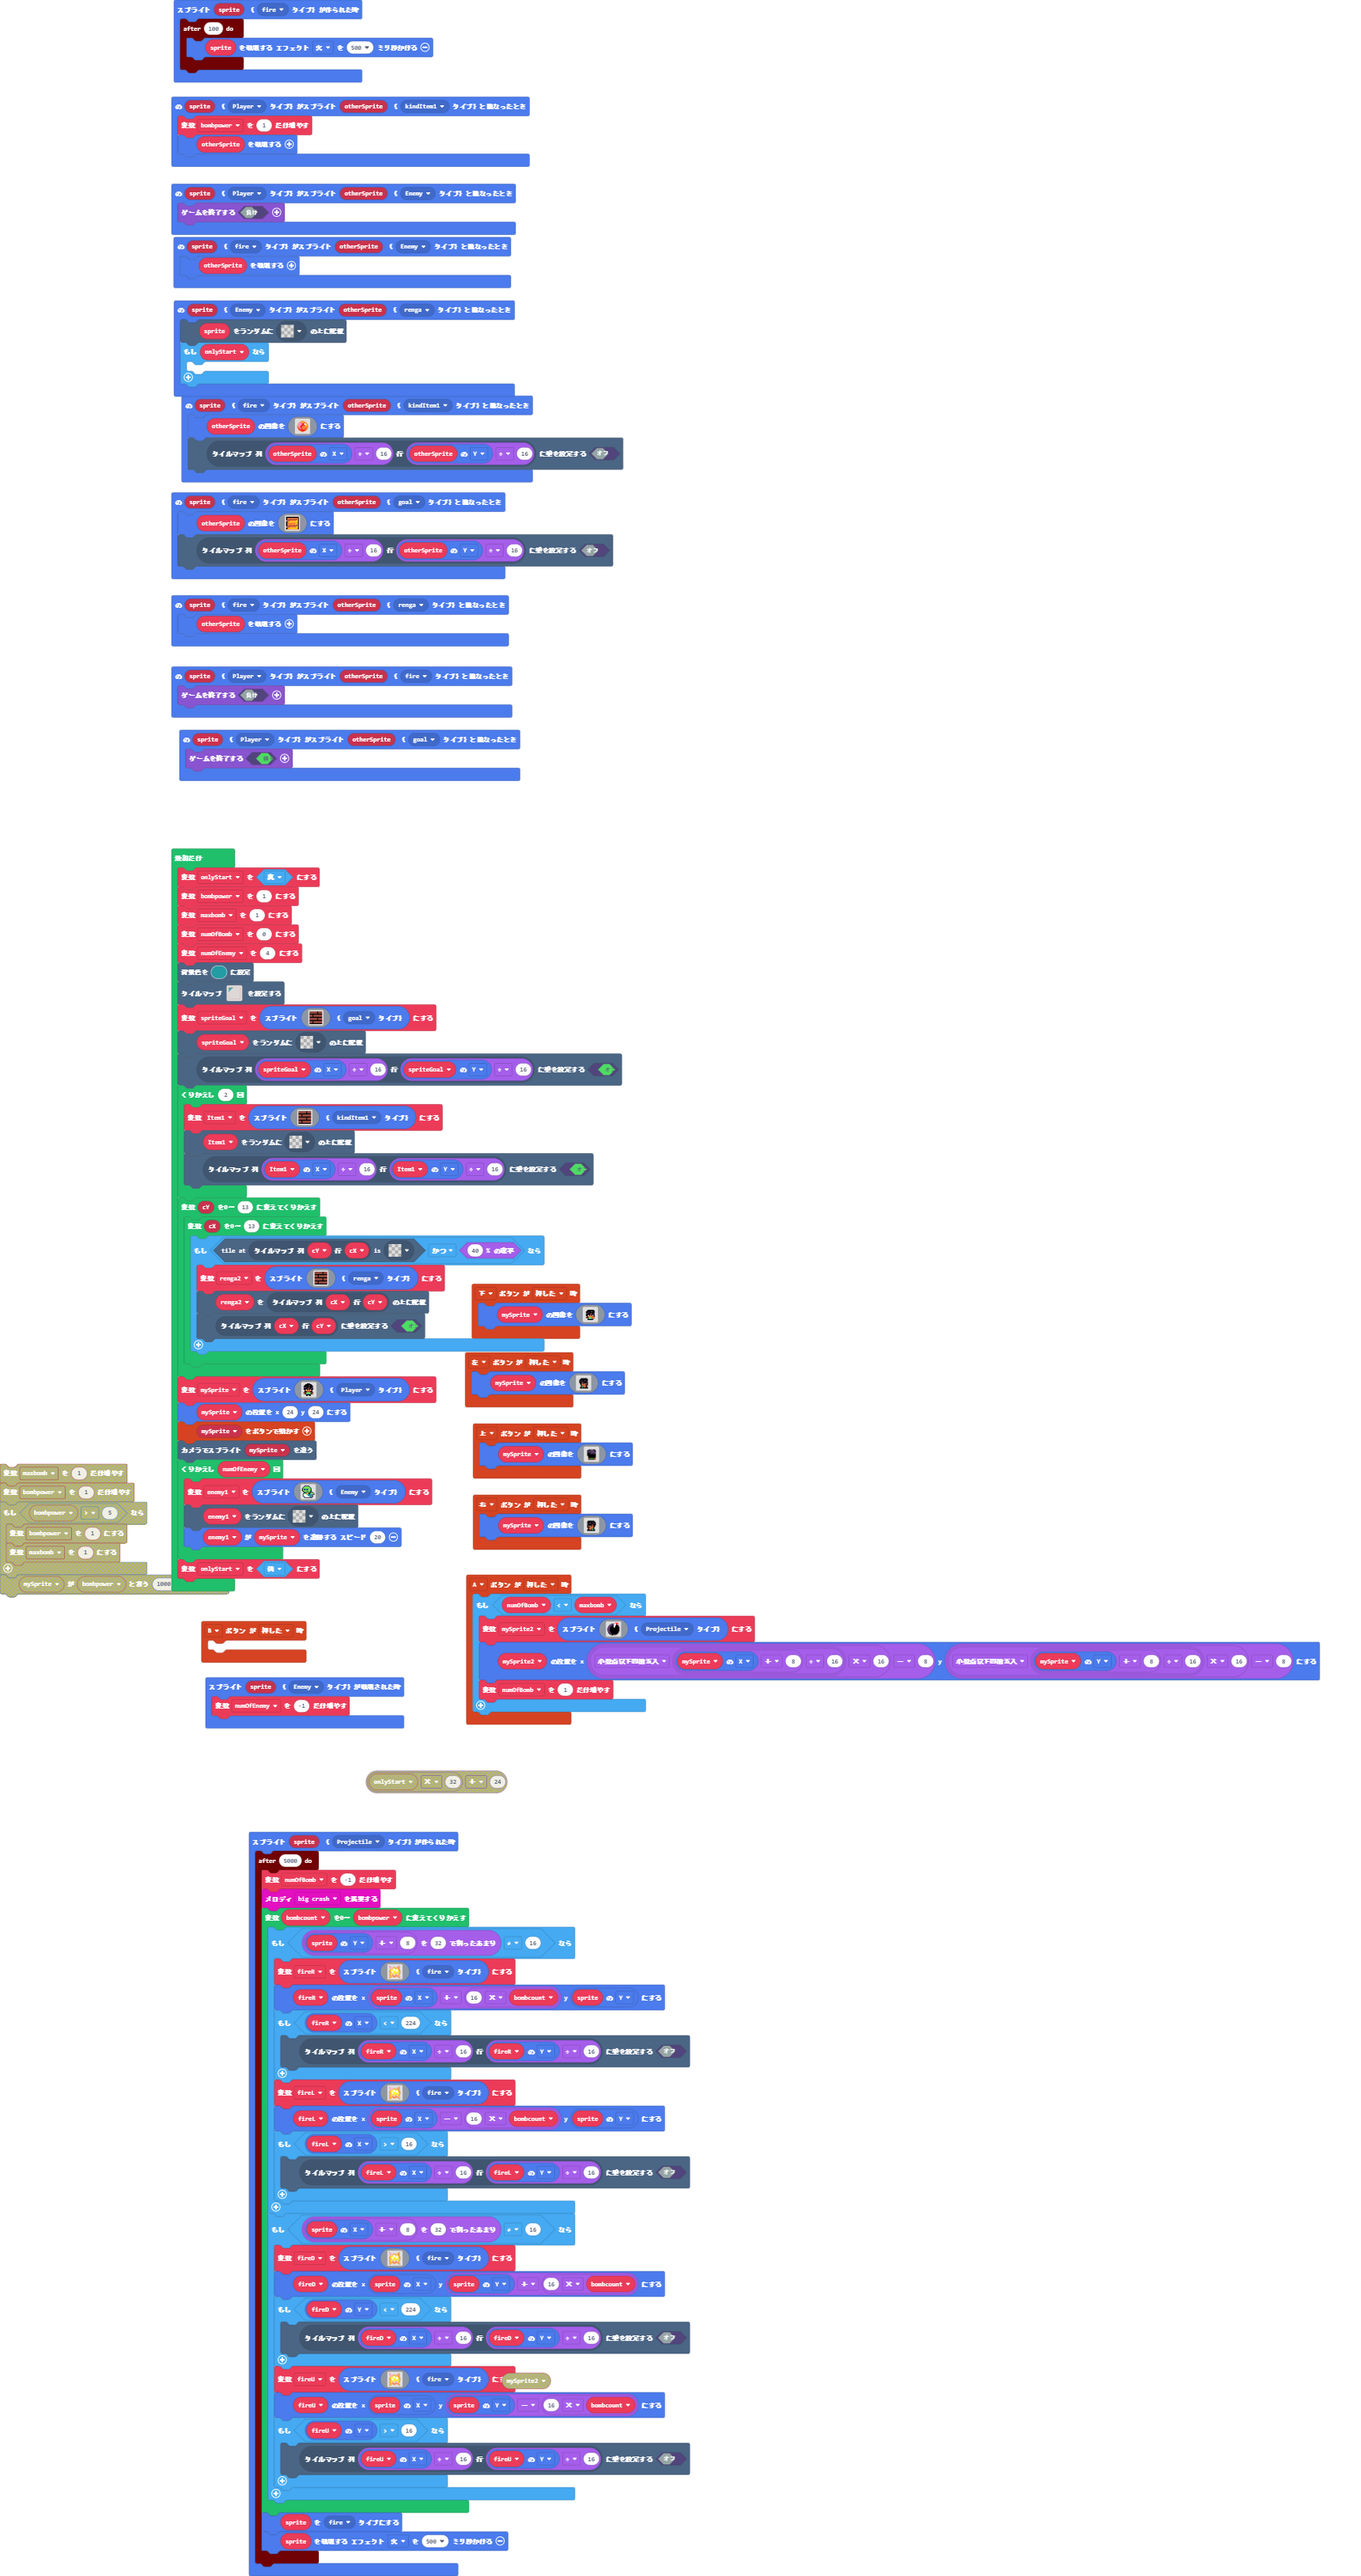
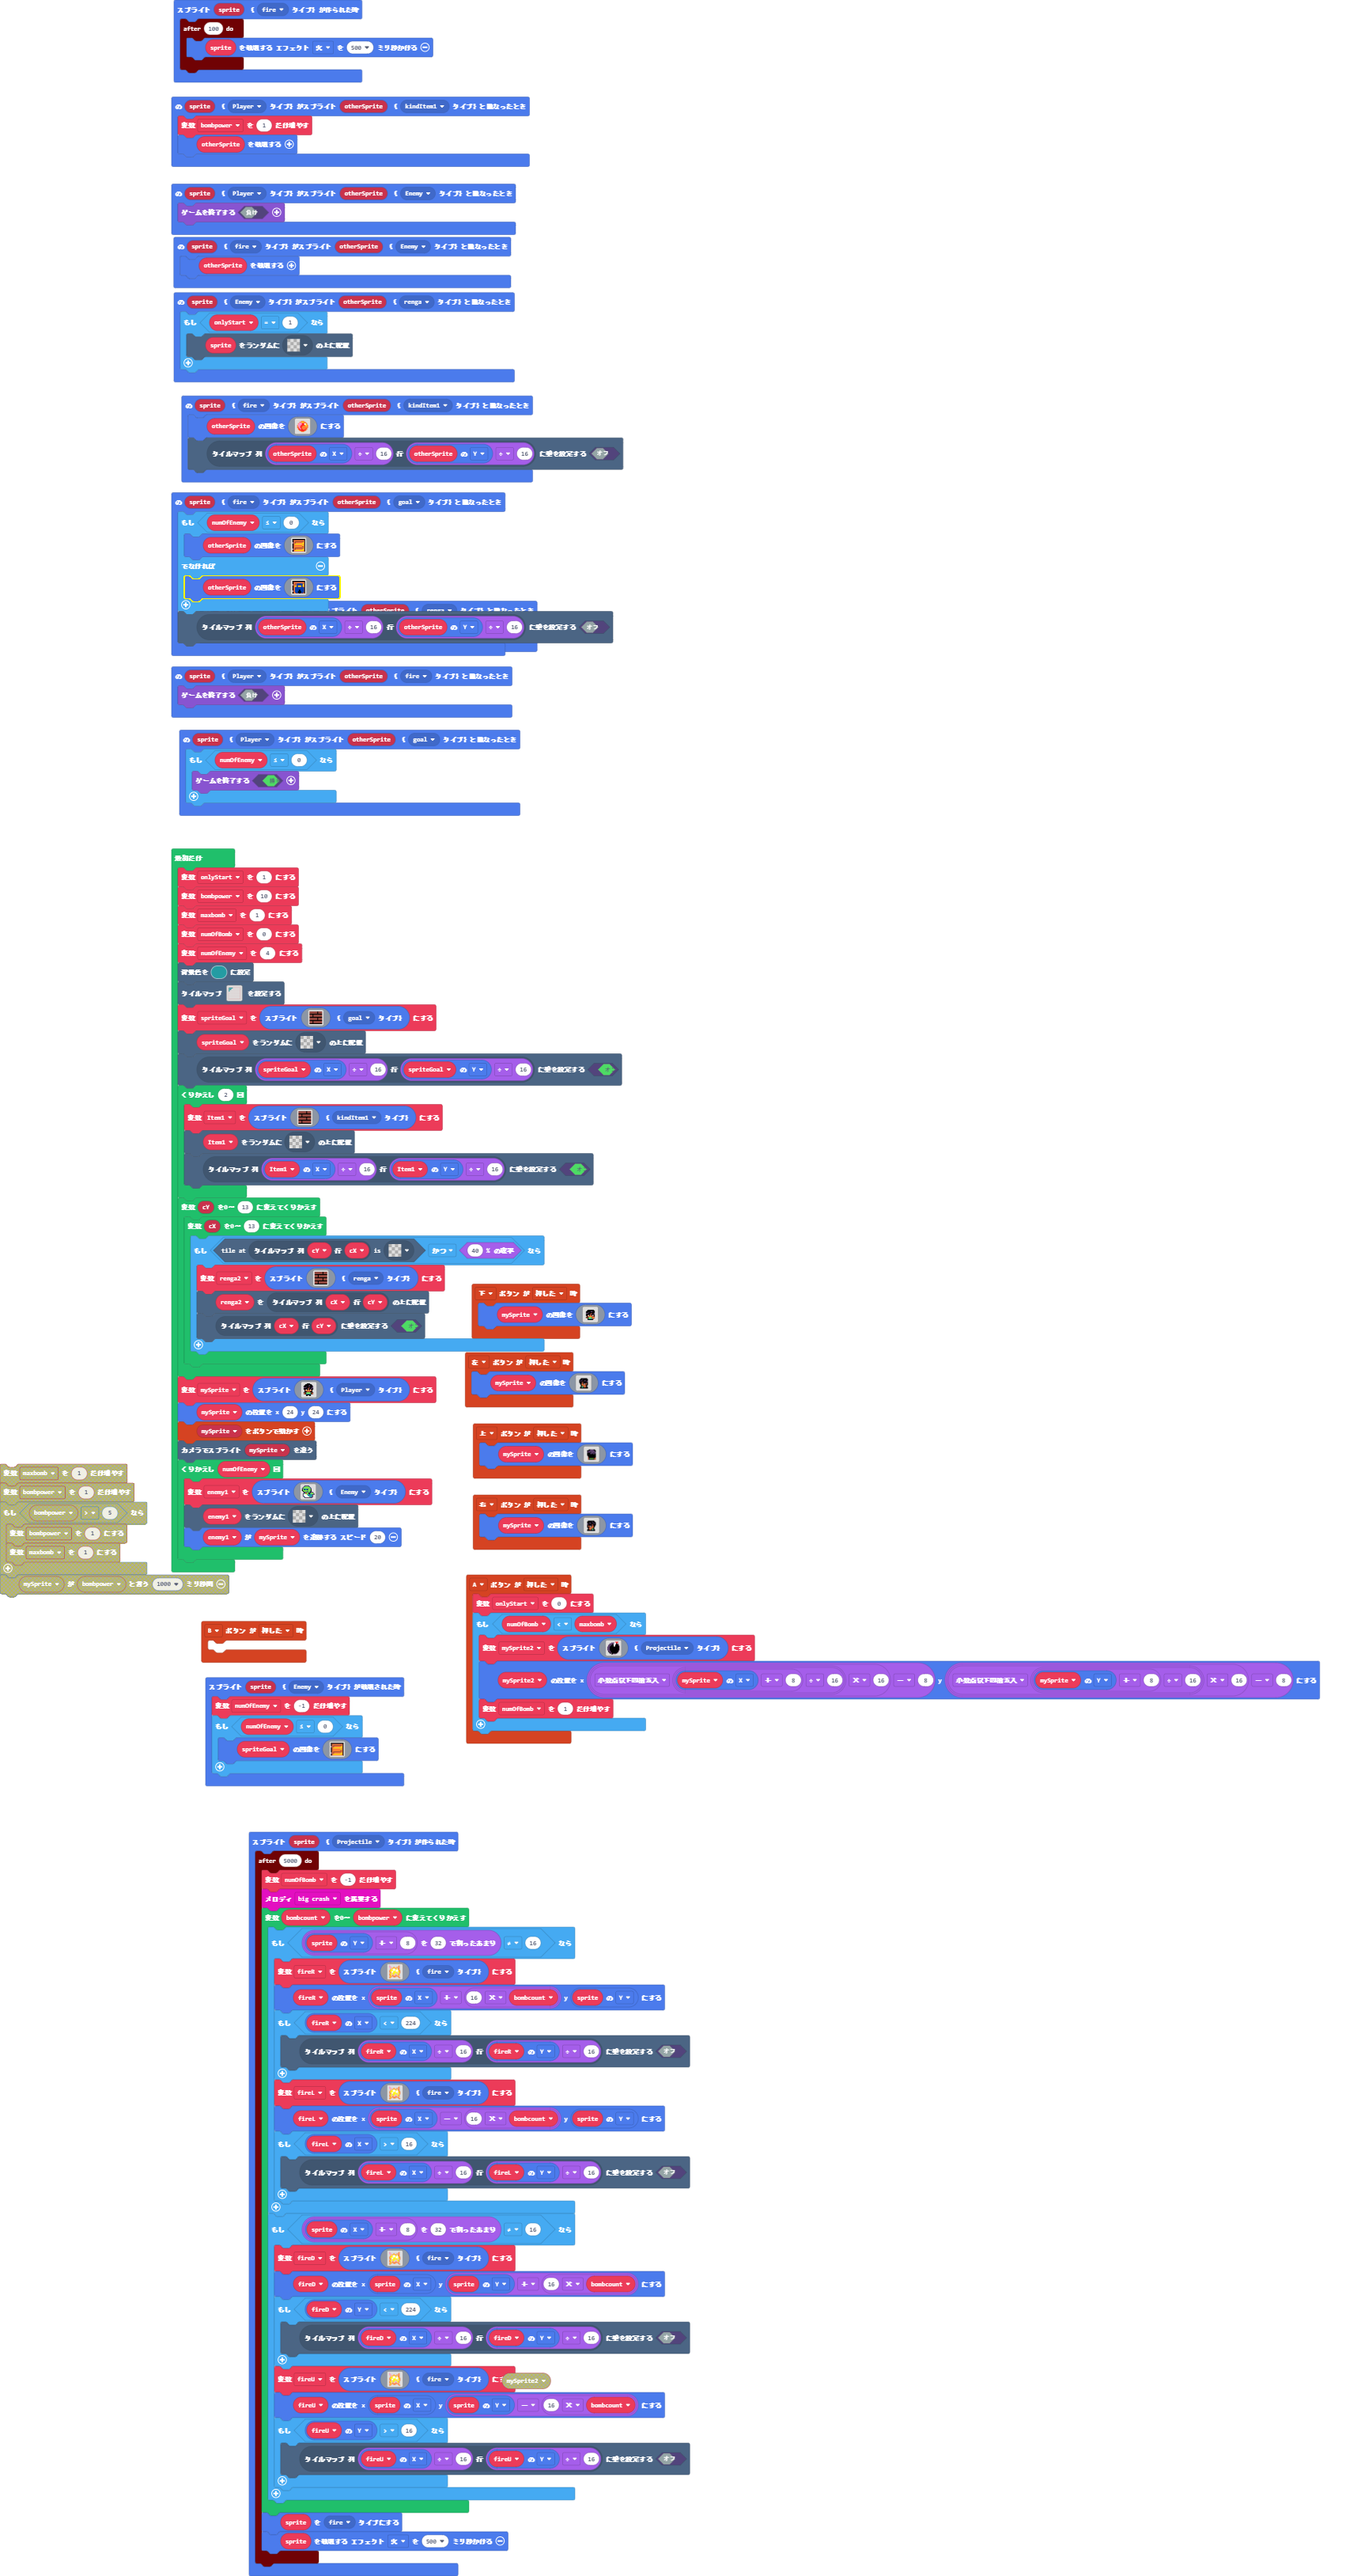
更新 main.blocks, main.ts

diff --git a/main.ts b/main.ts
@@ -33,24 +33,45 @@ sprites.onOverlap(SpriteKind.Player, SpriteKind.kindItem1, function (sprite, oth
     otherSprite.destroy()
 })
 sprites.onOverlap(SpriteKind.fire, SpriteKind.goal, function (sprite, otherSprite) {
-    otherSprite.setImage(img`
-        f f f f f f f f f f f f f f f f 
-        f e e e e e e e e e e e e e e f 
-        f e 4 4 4 4 4 4 4 4 4 4 4 4 4 f 
-        f e 4 e e e e e e e e e e e 4 f 
-        b e 4 e 4 4 4 4 4 4 4 4 4 5 4 f 
-        b e 4 e 4 4 4 4 4 4 4 4 4 5 4 f 
-        f e 4 5 5 5 5 5 5 5 5 5 5 5 4 f 
-        f e 4 4 4 4 4 4 4 4 4 4 4 4 4 f 
-        f e 4 4 4 4 4 4 4 4 4 4 5 5 4 f 
-        f e 4 4 4 4 4 4 4 4 4 4 5 e 4 f 
-        f e 4 4 4 4 4 4 4 4 4 4 4 4 4 f 
-        f e 4 e e e e e e e e e e e 4 f 
-        b e 4 e 4 4 4 4 4 4 4 4 4 5 4 f 
-        b e 4 e 4 4 4 4 4 4 4 4 4 5 4 f 
-        f e 4 5 5 5 5 5 5 5 5 5 5 5 4 f 
-        f e 4 4 4 4 4 4 4 4 4 4 4 4 4 f 
-        `)
+    if (numOfEnemy <= 0) {
+        otherSprite.setImage(img`
+            f f f f f f f f f f f f f f f f 
+            f e e e e e e e e e e e e e e f 
+            f e 4 4 4 4 4 4 4 4 4 4 4 4 4 f 
+            f e 4 e e e e e e e e e e e 4 f 
+            b e 4 e 4 4 4 4 4 4 4 4 4 5 4 f 
+            b e 4 e 4 4 4 4 4 4 4 4 4 5 4 f 
+            f e 4 5 5 5 5 5 5 5 5 5 5 5 4 f 
+            f e 4 4 4 4 4 4 4 4 4 4 4 4 4 f 
+            f e 4 4 4 4 4 4 4 4 4 4 5 5 4 f 
+            f e 4 4 4 4 4 4 4 4 4 4 e e 4 f 
+            f e 4 4 4 4 4 4 4 4 4 4 4 4 4 f 
+            f e 4 e e e e e e e e e e e 4 f 
+            b e 4 e 4 4 4 4 4 4 4 4 4 5 4 f 
+            b e 4 e 4 4 4 4 4 4 4 4 4 5 4 f 
+            f e 4 5 5 5 5 5 5 5 5 5 5 5 4 f 
+            f e 4 4 4 4 4 4 4 4 4 4 4 4 4 f 
+            `)
+    } else {
+        otherSprite.setImage(img`
+            f f f f f f f f f f f f f f f f 
+            f e e e e e e e e e e e e e e f 
+            f e 4 4 4 4 4 4 4 4 4 4 4 4 4 f 
+            f e 4 e e e 8 8 8 8 8 8 e e 4 f 
+            b e 4 e 4 8 8 8 8 8 8 8 8 5 4 f 
+            b e 4 e 4 8 c c c c c 8 c 5 4 f 
+            f e 4 5 5 8 c 5 5 5 5 8 c 5 4 f 
+            f e 4 4 4 8 c 4 4 4 4 8 c 4 4 f 
+            f e 4 8 8 8 8 8 8 8 8 8 8 8 c f 
+            f e 4 8 8 8 8 8 8 8 8 8 8 8 c f 
+            f e 4 8 8 8 8 8 8 8 8 8 8 8 c f 
+            f e 4 8 8 8 8 8 f f 8 8 8 8 c f 
+            b e 4 8 8 8 8 8 f f 8 8 8 8 c f 
+            b e 4 8 8 8 8 f f f f 8 8 8 c f 
+            f e 4 c 8 8 8 f f f f 8 8 c c f 
+            f e 4 4 c c c c f f c c c c 4 f 
+            `)
+    }
     tiles.setWallAt(tiles.getTileLocation(otherSprite.x / 16, otherSprite.y / 16), false)
 })
 sprites.onCreated(SpriteKind.fire, function (sprite) {
@@ -132,13 +153,14 @@ controller.B.onEvent(ControllerButtonEvent.Pressed, function () {
 	
 })
 sprites.onOverlap(SpriteKind.Enemy, SpriteKind.renga, function (sprite, otherSprite) {
-    tiles.placeOnRandomTile(sprite, assets.tile`transparency16`)
-    if (onlyStart) {
-    	
+    if (onlyStart == 1) {
+        tiles.placeOnRandomTile(sprite, assets.tile`transparency16`)
     }
 })
 sprites.onOverlap(SpriteKind.Player, SpriteKind.goal, function (sprite, otherSprite) {
-    game.over(true)
+    if (numOfEnemy <= 0) {
+        game.over(true)
+    }
 })
 controller.up.onEvent(ControllerButtonEvent.Pressed, function () {
     mySprite.setImage(img`
@@ -264,11 +286,32 @@ sprites.onCreated(SpriteKind.Projectile, function (sprite) {
 })
 sprites.onDestroyed(SpriteKind.Enemy, function (sprite) {
     numOfEnemy += -1
+    if (numOfEnemy <= 0) {
+        spriteGoal.setImage(img`
+            f f f f f f f f f f f f f f f f 
+            f e e e e e e e e e e e e e e f 
+            f e 4 4 4 4 4 4 4 4 4 4 4 4 4 f 
+            f e 4 e e e e e e e e e e e 4 f 
+            b e 4 e 4 4 4 4 4 4 4 4 4 5 4 f 
+            b e 4 e 4 4 4 4 4 4 4 4 4 5 4 f 
+            f e 4 5 5 5 5 5 5 5 5 5 5 5 4 f 
+            f e 4 4 4 4 4 4 4 4 4 4 4 4 4 f 
+            f e 4 4 4 4 4 4 4 4 4 4 5 5 4 f 
+            f e 4 4 4 4 4 4 4 4 4 4 e e 4 f 
+            f e 4 4 4 4 4 4 4 4 4 4 4 4 4 f 
+            f e 4 e e e e e e e e e e e 4 f 
+            b e 4 e 4 4 4 4 4 4 4 4 4 5 4 f 
+            b e 4 e 4 4 4 4 4 4 4 4 4 5 4 f 
+            f e 4 5 5 5 5 5 5 5 5 5 5 5 4 f 
+            f e 4 4 4 4 4 4 4 4 4 4 4 4 4 f 
+            `)
+    }
 })
 sprites.onOverlap(SpriteKind.Player, SpriteKind.Enemy, function (sprite, otherSprite) {
     game.over(false)
 })
 controller.A.onEvent(ControllerButtonEvent.Pressed, function () {
+    onlyStart = 0
     if (numOfBomb < maxbomb) {
         mySprite2 = sprites.create(img`
             . . . . . . . . . . 2 2 2 2 . . 
@@ -301,18 +344,20 @@ let enemy1: Sprite = null
 let mySprite: Sprite = null
 let renga2: Sprite = null
 let Item1: Sprite = null
+let spriteGoal: Sprite = null
+let numOfEnemy = 0
 let numOfBomb = 0
 let maxbomb = 0
 let bombpower = 0
-let onlyStart = false
-onlyStart = true
-bombpower = 1
+let onlyStart = 0
+onlyStart = 1
+bombpower = 10
 maxbomb = 1
 numOfBomb = 0
-let numOfEnemy = 4
+numOfEnemy = 4
 scene.setBackgroundColor(6)
 tiles.setTilemap(tilemap`レベル1`)
-let spriteGoal = sprites.create(img`
+spriteGoal = sprites.create(img`
     e e e e e e e e e e f e e e e e 
     e e e e e e e e e e f e e e e e 
     e e e e e e e e e e f e e e e e 
@@ -423,4 +468,3 @@ for (let index = 0; index < numOfEnemy; index++) {
     tiles.placeOnRandomTile(enemy1, assets.tile`transparency16`)
     enemy1.follow(mySprite, 20)
 }
-onlyStart = false
